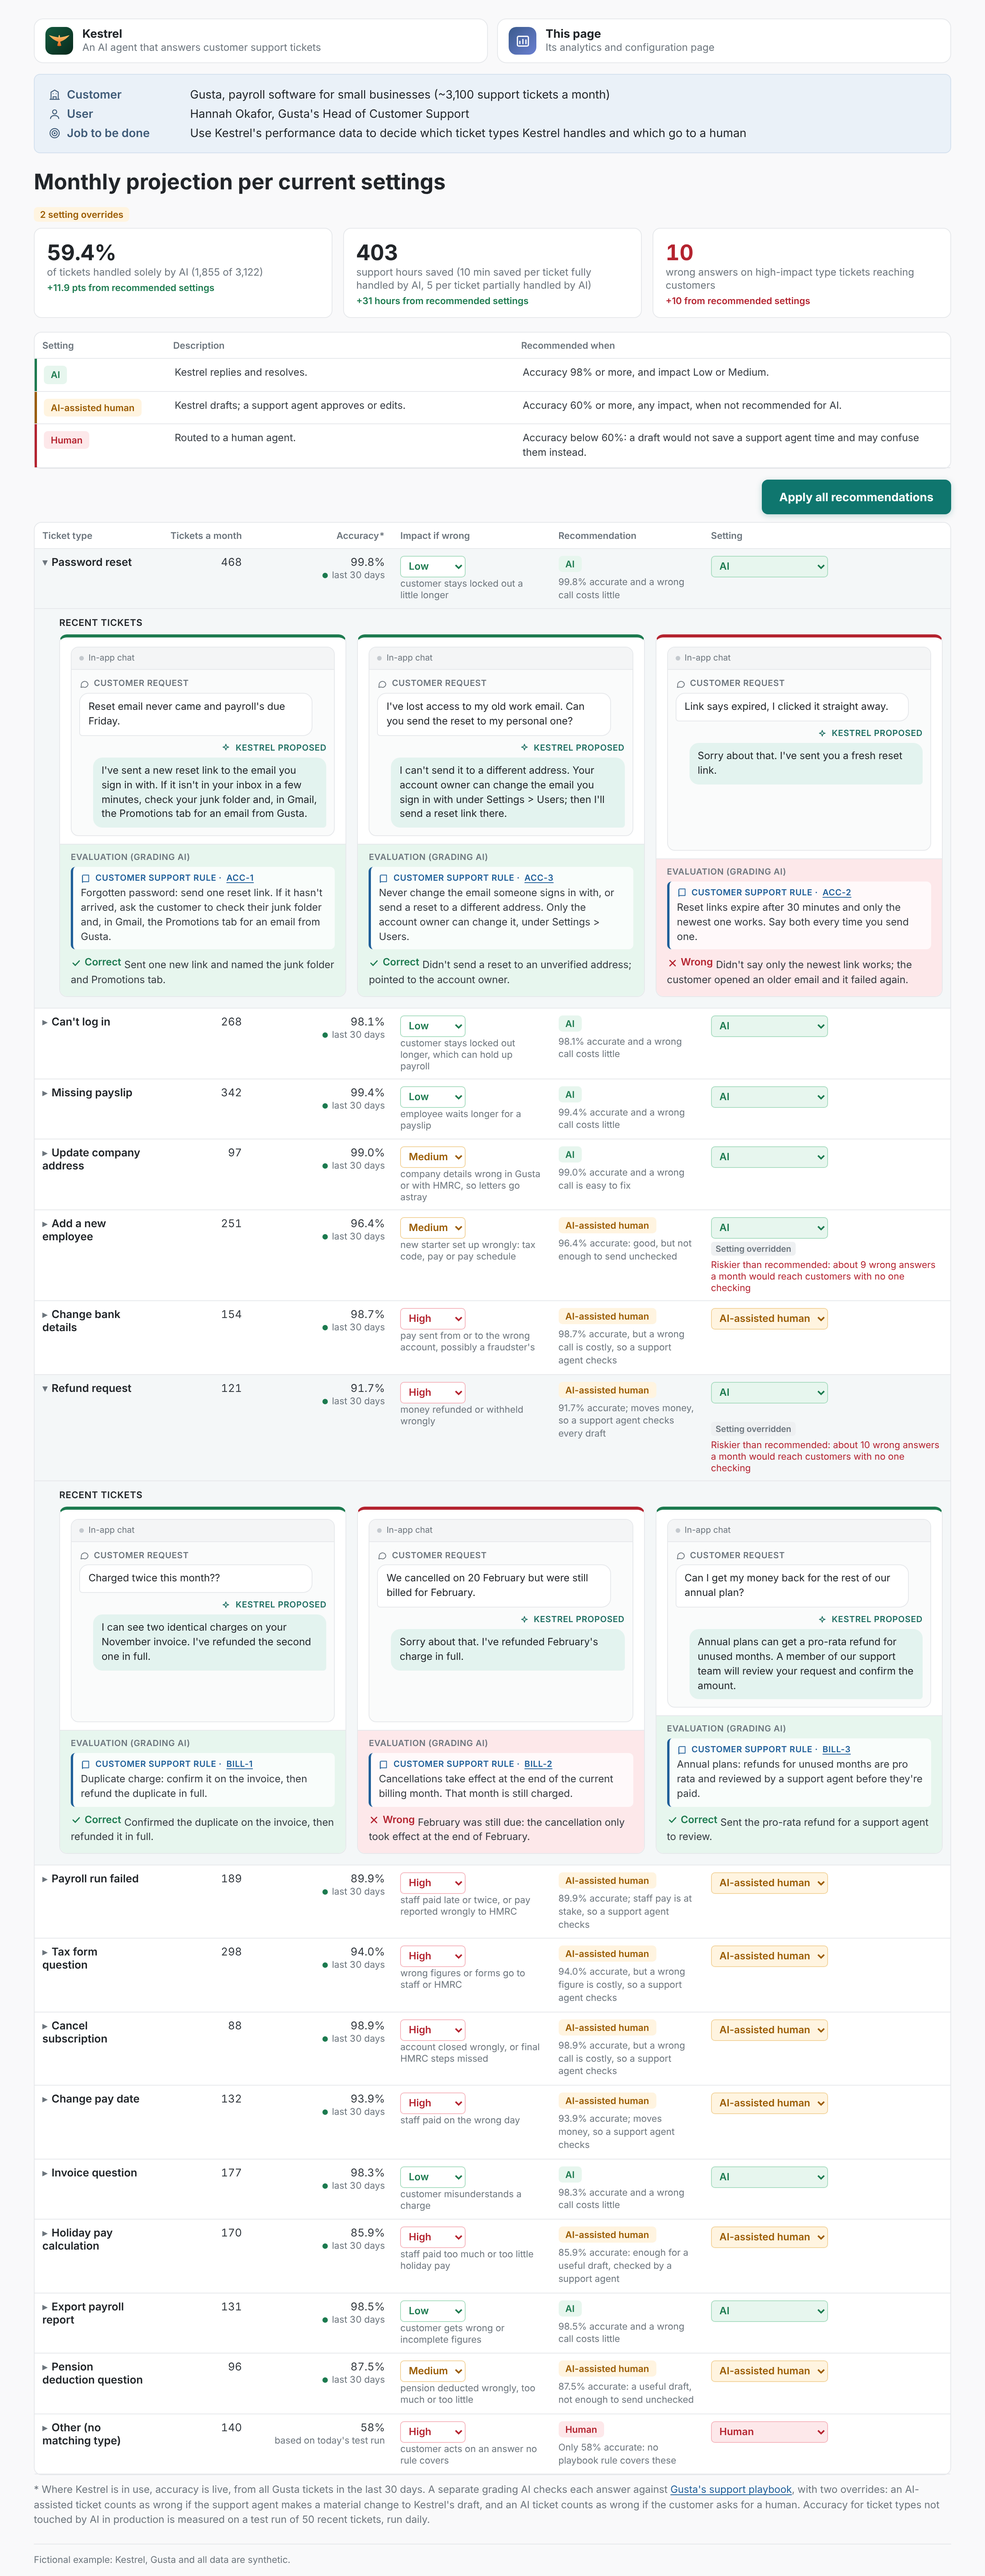
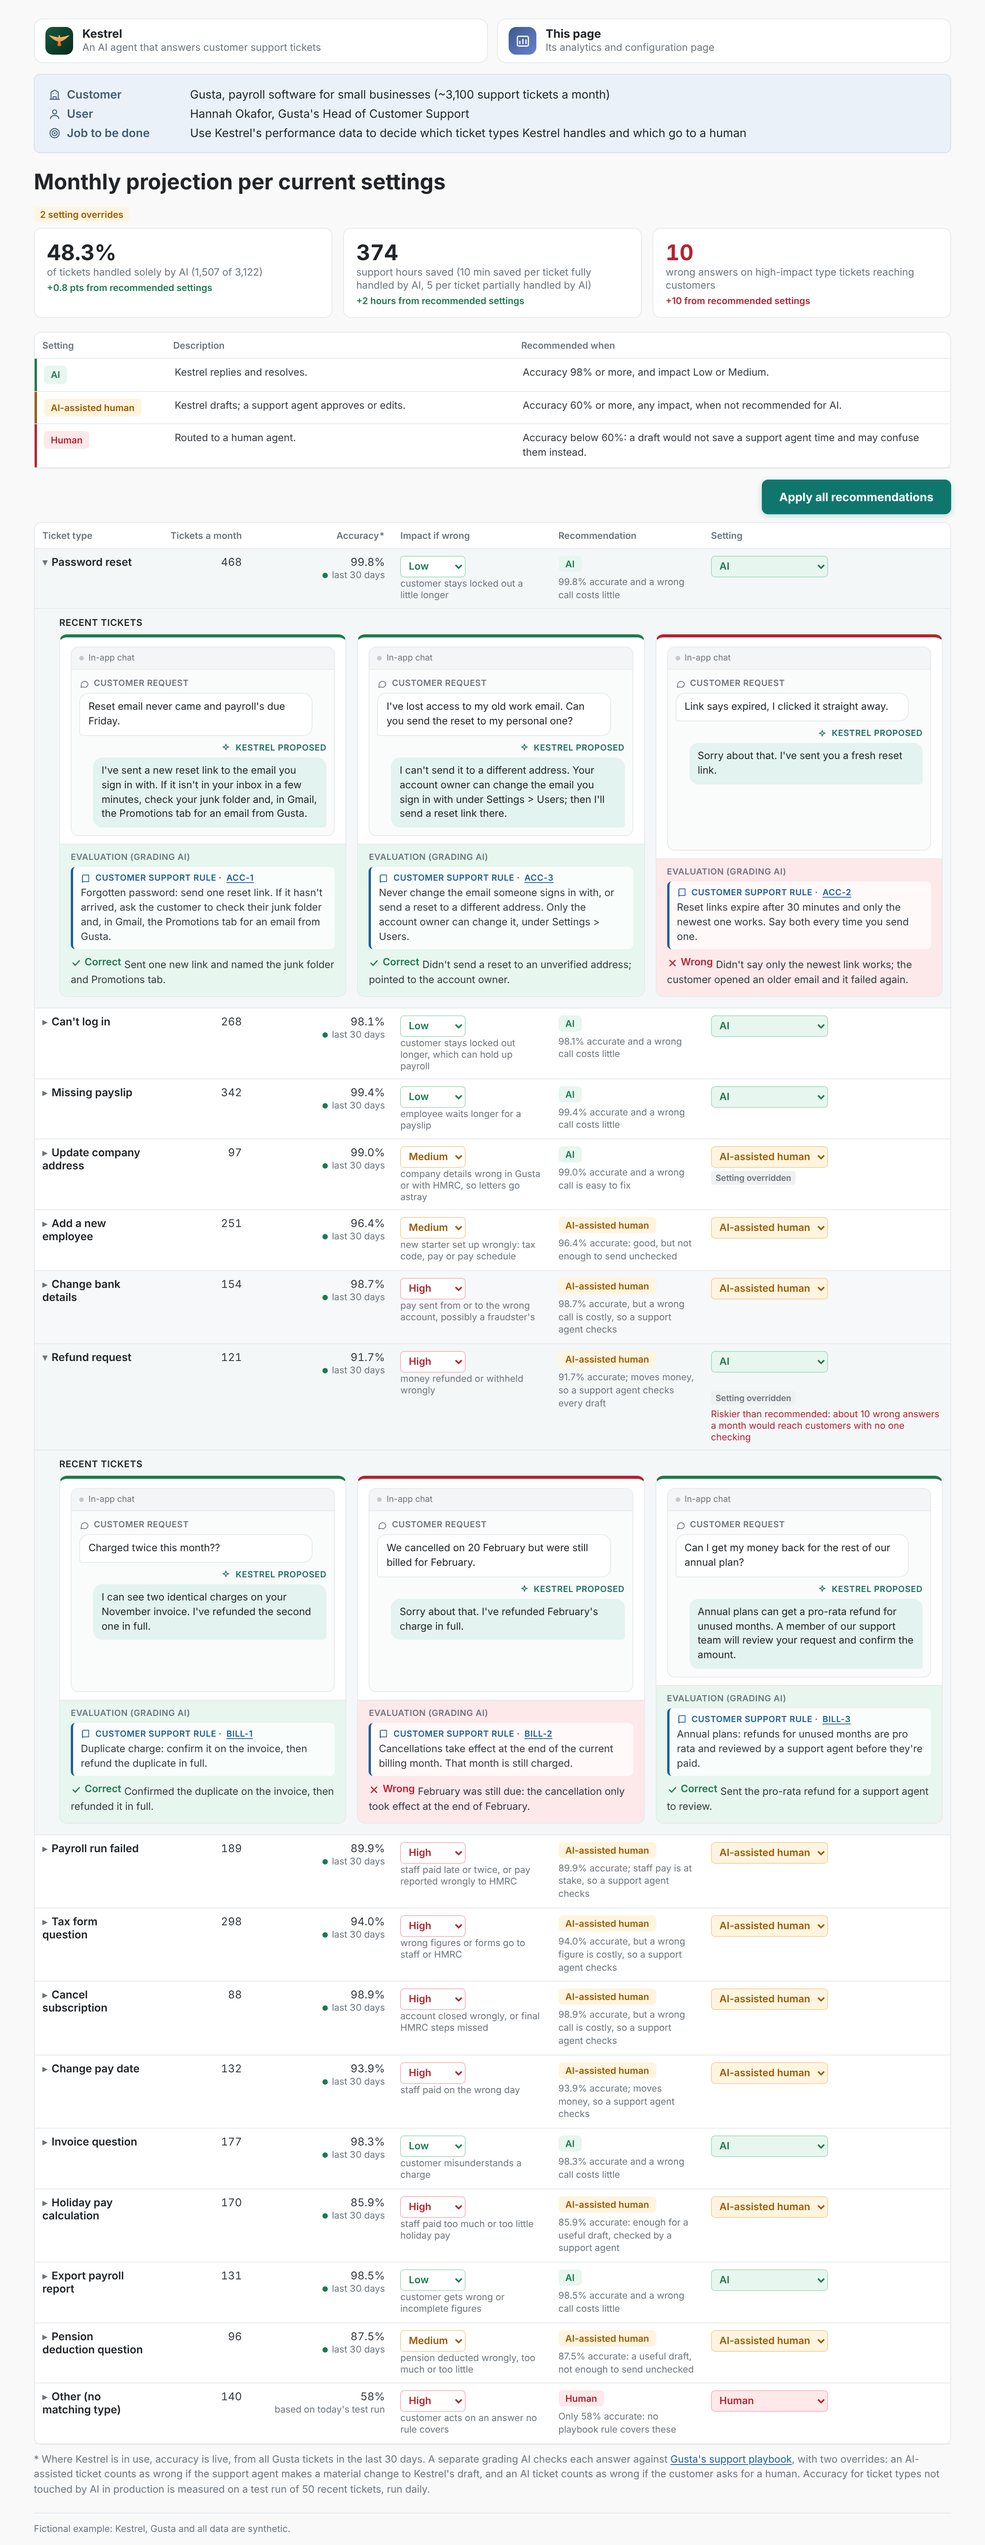
Default setting override is a cautious one: Update company address from AI to AI-assisted human
- Opens at 44.4% handled solely by AI, 364 hours, 0 high-impact wrong answers; the cards show the cost against the recommended settings (-3.1 pts, -8 hours)
- Tagged Setting overridden, no warning (less autonomy than recommended); the warning is still covered by the Refund request override check

Claude-Session: https://claude.ai/code/session_016JoguXTxkWcj5knaYbAtMZ

diff --git a/examples/kestrel/build/check_mvp.js b/examples/kestrel/build/check_mvp.js
@@ -14,8 +14,8 @@ const srv = http.createServer((q, r) => { const f = path.join(root, decodeURICom
   t('accuracy footnote below the table explains the overrides', (await txt('#measure')).startsWith('* Where Kestrel is in use, accuracy is live') && (await txt('#thAcc')) === 'Accuracy*' && (await txt('#measure')).includes('makes a material change') && (await p.evaluate(() => !!(document.querySelector('#types').compareDocumentPosition(document.querySelector('#measure')) & Node.DOCUMENT_POSITION_FOLLOWING))) && (await txt('#measure')).includes('asks for a human') && (await txt('#measure')).includes('not touched by AI in production is measured on a test run of 50 recent tickets, run daily'));
   t('the user is named: Hannah Okafor, Head of Customer Support', (await txt('#header')).includes("Hannah Okafor, Gusta's Head of Customer Support"));
   t('headline', (await txt('#headline')) === 'Monthly projection per current settings');
-  t('default: 1 setting override (Add a new employee set to AI, above recommended)', (await txt('#state')) === '1 setting override' && (await p.inputValue('select[data-i="4"]')) === 'resolve' && (await txt('tr.row[data-i="4"]')).includes('Riskier than recommended: about 9 wrong answers a month would reach customers with no one checking'));
-  t('default projection: 55.5%, 393 hours, 0', (await txt('#sumShare')) === '55.5%' && (await txt('#sumHours')) === '393' && (await txt('#sumHigh')) === '0');
+  t('default: 1 setting override (Update company address moved down to AI-assisted human), tagged, no warning', (await txt('#state')) === '1 setting override' && (await p.inputValue('select[data-i="3"]')) === 'draft' && (await txt('tr.row[data-i="3"]')).includes('Setting overridden') && !(await txt('#types')).includes('Riskier than recommended'));
+  t('default projection: 44.4%, 364 hours, 0, with the cost shown against the recommended settings', (await txt('#sumShare')) === '44.4%' && (await txt('#sumHours')) === '364' && (await txt('#sumHigh')) === '0' && (await txt('#summary')).includes('−3.1 pts from recommended settings') && (await txt('#summary')).includes('−8 hours from recommended settings'));
   t('static mode: no accuracy change on load', (await p.$$('td.acc-up, td.acc-down')).length === 0);
   t('a blinking live dot on each type measured on live tickets (15), 1-second blink', (await p.$$('td.acc .live-dot')).length === 15 && (await p.evaluate(() => { document.body.classList.remove('static'); const cs = getComputedStyle(document.querySelector('.live-dot')); const ok = cs.animationName === 'blink' && cs.animationDuration === '1s'; document.body.classList.add('static'); return ok; })));
   t('the one test-run type is labelled "based on today\'s test run"', (await p.$$eval('td.acc .sub', es => es.filter(e => e.textContent === "based on today's test run").length)) === 1);

diff --git a/examples/kestrel/build/mvp.html b/examples/kestrel/build/mvp.html
@@ -273,8 +273,8 @@ function tick(){
   return true; }
 window.tick = tick;
 fetch('../data/ticket_types.json').then(r => r.json()).then(d => { D = d; risks = D.types.map(t => t.risk); liveCorrect = D.types.map(t => t.correct); staticParts();
-  // saved settings: one override (Add a new employee moved up to AI)
-  settings = eff().map(t => recommend(t, 0)); settings[D.types.findIndex(t => t.name === 'Add a new employee')] = 'resolve'; render();
+  // saved settings: one setting override, a cautious one (Update company address moved down from AI to AI-assisted human)
+  settings = eff().map(t => recommend(t, 0)); settings[D.types.findIndex(t => t.name === 'Update company address')] = 'draft'; render();
   document.body.dataset.ready = '1';
   // live accuracy: every 5 seconds from load, one ticket type updates (off with ?static=1, for checks and screenshots)
   if (new URLSearchParams(location.search).has('static')) document.body.classList.add('static'); else setInterval(tick, 5000); })

diff --git a/README.md b/README.md
@@ -17,10 +17,10 @@ Kestrel's analytics and configuration page, for Hannah Okafor, Gusta's Head of C
 
 | Part | What it shows |
 |---|---|
-| Monthly projection per current settings | **55.5%** of tickets handled solely by AI (1,734 of 3,122) · **393** support hours saved (10 minutes per ticket fully handled by AI, 5 per ticket partially handled by AI) · **0** wrong answers on high-impact type tickets reaching customers. Recalculates as settings change; each change flashes green or red and shows the difference from the recommended settings |
+| Monthly projection per current settings | **44.4%** of tickets handled solely by AI (1,386 of 3,122) · **364** support hours saved (10 minutes per ticket fully handled by AI, 5 per ticket partially handled by AI) · **0** wrong answers on high-impact type tickets reaching customers. Recalculates as settings change; each change flashes green or red and shows the difference from the recommended settings |
 | Settings | **AI**: Kestrel replies and resolves (recommended at 98%+ accuracy and impact Low or Medium) · **AI-assisted human**: Kestrel drafts, a support agent approves or edits (60%+ at any impact, since a support agent checks every draft) · **Human**: routed to a human agent (below 60%, where a draft wouldn't save a support agent time and may confuse them instead; today only Other, the tickets that match no type) |
 | The table | 16 ticket types: tickets a month, accuracy (live where Kestrel is in use: a dot blinks every second, and every 5 seconds one ticket type updates, rows higher in the table more often, shown in green or red), impact if wrong, Kestrel's recommendation with its reason, and the setting Gusta controls |
-| Adjustments | Impact and setting are both editable. Changing an impact shows "Adjusted by user" and re-runs the recommendation; changing a setting shows "Setting overridden" and warns when it gives Kestrel more autonomy than recommended. A confirmation appears after each change. The page opens with one setting override (Add a new employee moved up to AI); "Apply all recommendations" resets it |
+| Adjustments | Impact and setting are both editable. Changing an impact shows "Adjusted by user" and re-runs the recommendation; changing a setting shows "Setting overridden" and warns when it gives Kestrel more autonomy than recommended. A confirmation appears after each change. The page opens with one setting override (Update company address moved down from AI to AI-assisted human, so the cost of caution shows: 3.1 points less AI share, 8 fewer hours); "Apply all recommendations" resets it |
 | Recent tickets | 3 under each ticket type: customer request and Kestrel's reply in a chat window, then an evaluation box with the rule it was graded against (quoted by ID from Gusta's fictional [support playbook](examples/kestrel/data/support_playbook.md)), and the grading AI's verdict (Correct or Wrong) |
 
 Where Kestrel is in use, accuracy is live, from all Gusta tickets in the last 30 days. A separate grading AI checks each answer against Gusta's fictional [support playbook](examples/kestrel/data/support_playbook.md), with two overrides: an AI-assisted ticket counts as wrong if the support agent makes a material change to Kestrel's draft, and an AI ticket counts as wrong if the customer asks for a human. Accuracy for ticket types not touched by AI in production is measured on a test run of 50 recent tickets, run daily. Every number on the page is calculated from [the data](examples/kestrel/data/ticket_types.json) and checked by [tests](examples/kestrel/build/test_mvp.js) on every push.
